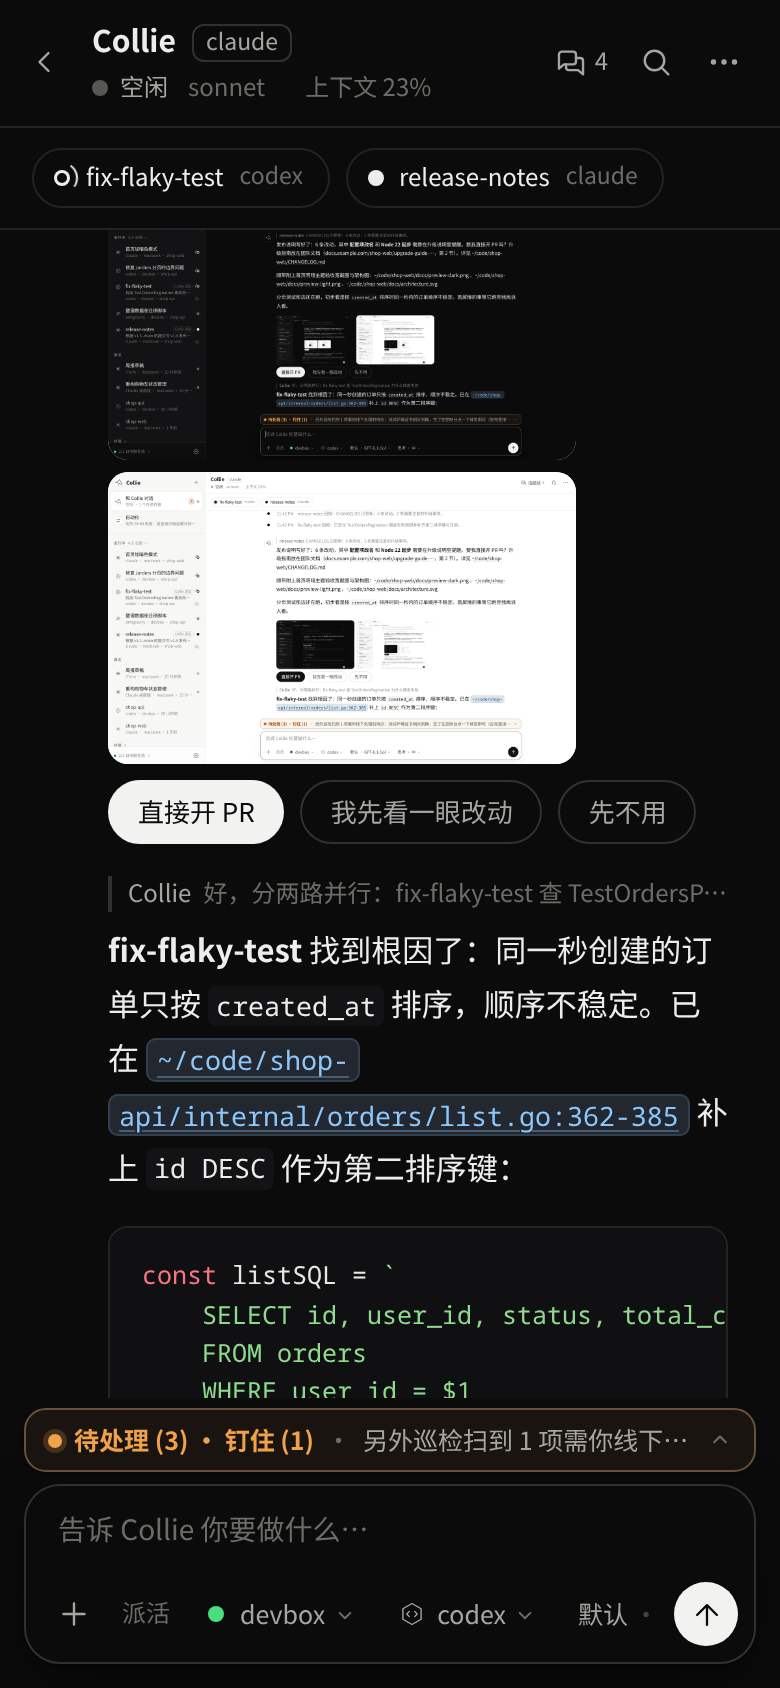
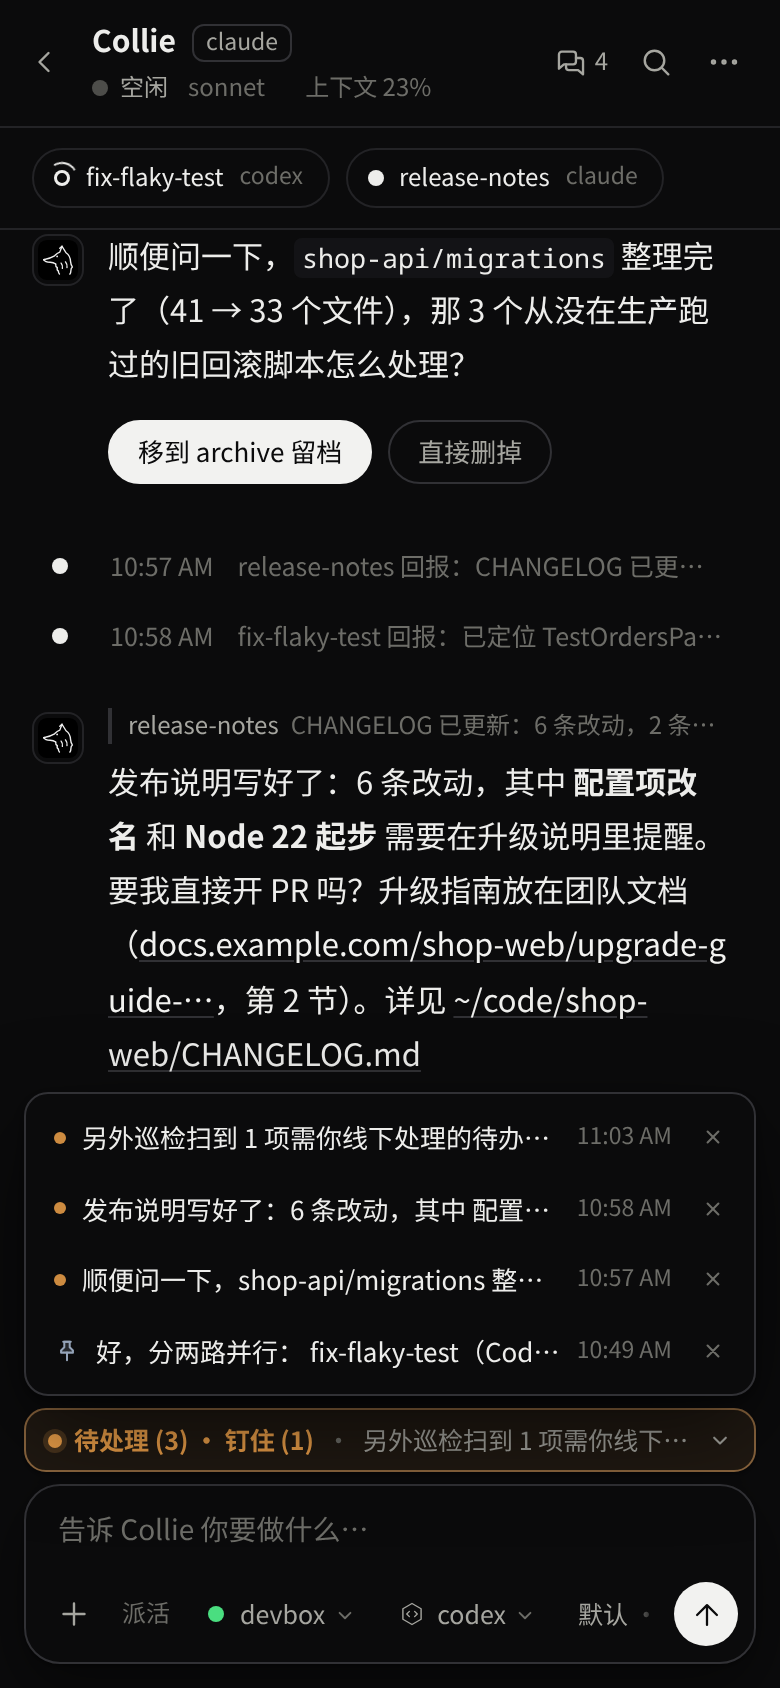
Polish homepage hero showcase break-out layout, mobile decision card, and video controls
- Restore staggered bottom-right break-out layout for `.stage-phone` (+44px right / +36px bottom on desktop, +26px on tablet) using container-safe inset spacing so desktop content stays unobstructed with 0px horizontal overflow across 1440px–390px
- Unify the hero cinema frame chrome for the 18s dark looping showcase (`hero-demo.mp4`), align its poster (`hero-dark.png`) to eliminate light-to-dark flash on load, and upgrade phone bezels with multi-layer shadows, subtle rim contrast, and progressive `corner-shape: squircle`
- Refresh `phone-decision-{light,dark}.png` from the live demo with the concise `shop-api/migrations` decision buttons and expanded Pending/Pinned tray, removing recursive thumbnail clutter and separating mobile and desktop focal content
- Add an accessible bilingual Pause/Play toggle in the hero frame bar (WCAG 2.2.2) with `prefers-reduced-motion: reduce` support and remove above-the-fold lazy loading on hero phone images

diff --git a/docs/index.html b/docs/index.html
@@ -37,6 +37,8 @@ window.onerror = function () { document.documentElement.classList.remove("js"); 
   --accent-light: #111111; --on-accent-light: #ffffff;
   --ok-light: #15803d; --attn-light: #b45309; --attn-soft-light: #fbf3e8;
   --shadow-light: 0 1px 2px rgba(0,0,0,.04), 0 16px 48px rgba(0,0,0,.08);
+  --phone-bezel-light: #18181b;
+  --phone-shadow-light: 0 0 0 1px rgba(0,0,0,.12), 0 10px 24px -6px rgba(0,0,0,.20), 0 28px 64px -12px rgba(0,0,0,.28);
 
   --bg-dark: #0b0b0c; --bg-2-dark: #131315; --bg-3-dark: #1c1c1f;
   --line-dark: #232327; --line-2-dark: #323238;
@@ -44,6 +46,8 @@ window.onerror = function () { document.documentElement.classList.remove("js"); 
   --accent-dark: #f2f2f0; --on-accent-dark: #0b0b0c;
   --ok-dark: #4ade80; --attn-dark: #f0a35e; --attn-soft-dark: #2a1f12;
   --shadow-dark: 0 1px 2px rgba(0,0,0,.45), 0 20px 56px rgba(0,0,0,.55);
+  --phone-bezel-dark: #222227;
+  --phone-shadow-dark: 0 0 0 1px rgba(255,255,255,.15), 0 12px 26px -6px rgba(0,0,0,.62), 0 34px 74px -12px rgba(0,0,0,.85);
 
   --bg: var(--bg-light); --bg-2: var(--bg-2-light); --bg-3: var(--bg-3-light);
   --line: var(--line-light); --line-2: var(--line-2-light);
@@ -51,6 +55,8 @@ window.onerror = function () { document.documentElement.classList.remove("js"); 
   --accent: var(--accent-light); --on-accent: var(--on-accent-light);
   --ok: var(--ok-light); --attn: var(--attn-light); --attn-soft: var(--attn-soft-light);
   --shadow: var(--shadow-light);
+  --phone-bezel: var(--phone-bezel-light);
+  --phone-shadow: var(--phone-shadow-light);
 
   --target-size: 28px;
   --sans: -apple-system, BlinkMacSystemFont, "Inter", "PingFang SC", "Hiragino Sans GB", "Segoe UI", sans-serif;
@@ -68,6 +74,8 @@ window.onerror = function () { document.documentElement.classList.remove("js"); 
     --accent: var(--accent-dark); --on-accent: var(--on-accent-dark);
     --ok: var(--ok-dark); --attn: var(--attn-dark); --attn-soft: var(--attn-soft-dark);
     --shadow: var(--shadow-dark);
+    --phone-bezel: var(--phone-bezel-dark);
+    --phone-shadow: var(--phone-shadow-dark);
   }
 }
 @supports (color: light-dark(white, black)) {
@@ -85,15 +93,18 @@ window.onerror = function () { document.documentElement.classList.remove("js"); 
     --ok: light-dark(var(--ok-light), var(--ok-dark));
     --attn: light-dark(var(--attn-light), var(--attn-dark));
     --attn-soft: light-dark(var(--attn-soft-light), var(--attn-soft-dark));
+    --phone-bezel: light-dark(var(--phone-bezel-light), var(--phone-bezel-dark));
   }
 }
 :root:has(> head > meta[name="color-scheme"][content="dark"]) {
   color-scheme: dark;
   --shadow: var(--shadow-dark);
+  --phone-shadow: var(--phone-shadow-dark);
 }
 :root:has(> head > meta[name="color-scheme"][content="light"]) {
   color-scheme: light;
   --shadow: var(--shadow-light);
+  --phone-shadow: var(--phone-shadow-light);
 }
 @supports not (color: light-dark(white, black)) {
   :root:has(> head > meta[name="color-scheme"][content="dark"]) {
@@ -102,6 +113,7 @@ window.onerror = function () { document.documentElement.classList.remove("js"); 
     --fg: var(--fg-dark); --fg-2: var(--fg-2-dark); --fg-3: var(--fg-3-dark);
     --accent: var(--accent-dark); --on-accent: var(--on-accent-dark);
     --ok: var(--ok-dark); --attn: var(--attn-dark); --attn-soft: var(--attn-soft-dark);
+    --phone-bezel: var(--phone-bezel-dark);
   }
   :root:has(> head > meta[name="color-scheme"][content="light"]) {
     --bg: var(--bg-light); --bg-2: var(--bg-2-light); --bg-3: var(--bg-3-light);
@@ -109,6 +121,7 @@ window.onerror = function () { document.documentElement.classList.remove("js"); 
     --fg: var(--fg-light); --fg-2: var(--fg-2-light); --fg-3: var(--fg-3-light);
     --accent: var(--accent-light); --on-accent: var(--on-accent-light);
     --ok: var(--ok-light); --attn: var(--attn-light); --attn-soft: var(--attn-soft-light);
+    --phone-bezel: var(--phone-bezel-light);
   }
 }
 
@@ -277,29 +290,58 @@ h1 em { font-style: normal; color: var(--attn); }
 }
 .proof span::before { content: "✓ "; color: var(--ok); }
 
-/* Hero media showcase — clean slot ready for future video cover/player swap */
-.stage { position: relative; margin: 40px auto 0; max-width: 1060px; padding-bottom: 24px; }
+/* Hero media showcase — desktop looping cinema stage + staggered break-out phone */
+.stage {
+  position: relative;
+  margin: 44px auto 0;
+  max-width: 1060px;
+  padding-inline-end: 44px;
+  padding-bottom: 36px;
+}
 .frame {
   border-radius: 16px; overflow: hidden;
-  border: 1px solid var(--line); box-shadow: var(--shadow);
-  background: var(--bg-2);
+  border: 1px solid #26262c; box-shadow: var(--shadow);
+  background: #141417;
 }
 .frame .bar {
   display: flex; align-items: center; gap: 7px;
-  min-block-size: 36px; padding: 6px 14px;
-  border-bottom: 1px solid var(--line); background: var(--bg-2);
+  min-block-size: 36px; padding: 5px 12px 5px 14px;
+  border-bottom: 1px solid #222228; background: #16161a;
 }
-.frame .bar i { width: 10px; height: 10px; border-radius: 50%; background: var(--line-2); flex: none; }
-.frame .bar span { margin-left: 8px; font-size: 0.75rem; color: var(--fg-3); font-family: var(--mono); }
-.stage-media { position: relative; background: var(--bg); }
+.frame .bar i { width: 10px; height: 10px; border-radius: 50%; background: #32323a; flex: none; }
+.frame .bar span { margin-inline-start: 8px; font-size: 0.75rem; color: #9a9a94; font-family: var(--mono); }
+.media-toggle {
+  margin-inline-start: auto;
+  display: inline-flex; align-items: center; gap: 5px;
+  min-block-size: 26px; padding: 3px 10px;
+  border-radius: 999px; border: 1px solid rgba(255,255,255,.14);
+  background: rgba(255,255,255,.06); color: #d6d6d0;
+  font: 0.72rem/1 var(--sans); font-weight: 500; cursor: pointer;
+  transition: background .15s ease, border-color .15s ease, color .15s ease;
+}
+.media-toggle:hover {
+  background: rgba(255,255,255,.13); border-color: rgba(255,255,255,.28); color: #ffffff;
+}
+.media-toggle:focus-visible { outline: 2px solid #ffffff; outline-offset: 2px; }
+.media-toggle svg { width: 11px; height: 11px; flex: none; }
+.media-toggle [hidden] { display: none; }
+@media (pointer: coarse) {
+  .media-toggle { min-block-size: 34px; padding: 5px 12px; }
+}
+.stage-media { position: relative; background: #0b0b0c; }
 .stage-media img,
 .stage-media video {
   width: 100%; aspect-ratio: 16 / 10; object-fit: cover; object-position: top;
 }
 .stage-phone {
-  position: absolute; right: 16px; bottom: 0; width: 224px;
-  border-radius: 32px; border: 6px solid #1b1b1d;
-  box-shadow: var(--shadow); overflow: hidden; background: var(--bg);
+  position: absolute; inset-inline-end: 0; inset-block-end: 0; z-index: 2;
+  width: 204px; border-radius: 32px; corner-shape: squircle;
+  border: 6px solid var(--phone-bezel);
+  box-shadow: var(--phone-shadow); overflow: hidden; background: var(--bg);
+}
+@media (prefers-reduced-motion: no-preference) and (hover: hover) {
+  .stage-phone { transition: transform .32s cubic-bezier(.22, 1, .36, 1); }
+  .stage-phone:hover { transform: translateY(-4px); }
 }
 .stage-phone img { width: 100%; aspect-ratio: 390 / 844; object-fit: cover; object-position: top; }
 
@@ -375,8 +417,8 @@ h2 {
 .duo { display: flex; gap: 18px; justify-content: center; align-items: flex-start; }
 .duo .phone-card {
   width: 47%; max-width: 248px;
-  border-radius: 32px; border: 6px solid #1b1b1d;
-  box-shadow: var(--shadow); overflow: hidden; background: var(--bg);
+  border-radius: 32px; corner-shape: squircle; border: 6px solid var(--phone-bezel);
+  box-shadow: var(--phone-shadow); overflow: hidden; background: var(--bg);
 }
 .duo .phone-card img { width: 100%; aspect-ratio: 390 / 844; object-fit: cover; object-position: top; }
 
@@ -484,7 +526,8 @@ footer a { color: var(--fg-2); }
   .feature.flip .text { order: 0; }
   .facts { grid-template-columns: 1fr 1fr; }
   .steps { grid-template-columns: 1fr; }
-  .stage-phone { width: 176px; right: 12px; border-width: 5px; border-radius: 26px; }
+  .stage { padding-inline-end: 26px; padding-bottom: 26px; }
+  .stage-phone { width: 168px; border-width: 5px; border-radius: 26px; }
 }
 @media (max-width: 640px) {
   .wrap { padding-inline: max(16px, env(safe-area-inset-left, 0px), env(safe-area-inset-right, 0px)); }
@@ -492,7 +535,7 @@ footer a { color: var(--fg-2); }
   nav { gap: 10px; }
   .ctrl { padding: 4px 8px; font-size: 0.75rem; }
   .hero { padding: 36px 0 12px; }
-  .stage { margin-top: 32px; padding-bottom: 0; }
+  .stage { margin-top: 32px; padding-inline-end: 0; padding-bottom: 0; }
   .stage-phone { display: none; }
   section { padding-top: 72px; }
   .points { grid-template-columns: 1fr; }
@@ -551,12 +594,19 @@ footer a { color: var(--fg-2); }
       <span data-i18n="proof_ports">Zero open ports</span>
     </div>
 
-    <!-- Primary media slot: silent looping hero showcase with static fallback -->
+    <!-- Primary media slot: silent looping hero showcase + staggered mobile decision view -->
     <div class="stage reveal" data-media-slot="hero-showcase">
       <div class="frame">
-        <div class="bar"><i></i><i></i><i></i><span data-i18n="stage_bar">collie · chat with Collie</span></div>
+        <div class="bar">
+          <i></i><i></i><i></i><span data-i18n="stage_bar">collie · chat with Collie</span>
+          <button type="button" class="media-toggle" id="hero-video-toggle" aria-controls="hero-video" aria-label="Pause looping demo video">
+            <svg class="ic-pause" viewBox="0 0 16 16" fill="currentColor" aria-hidden="true"><rect x="3" y="2.5" width="3.5" height="11" rx="1"/><rect x="9.5" y="2.5" width="3.5" height="11" rx="1"/></svg>
+            <svg class="ic-play" viewBox="0 0 16 16" fill="currentColor" aria-hidden="true" hidden><path d="M4 2.8v10.4L13 8z"/></svg>
+            <span class="media-toggle-label" data-i18n="video_pause">Pause</span>
+          </button>
+        </div>
         <div class="stage-media" id="hero-media">
-          <video id="hero-video" autoplay muted loop playsinline preload="metadata" poster="img/hero-light.png" width="1280" height="800" aria-label="Collie workspace: parallel Claude Code and Codex workers report back with a concise brief and one-tap decision buttons" data-i18n-aria="hero_img_alt">
+          <video id="hero-video" autoplay muted loop playsinline preload="metadata" poster="img/hero-dark.png" width="1280" height="800" aria-label="Collie workspace: parallel Claude Code and Codex workers report back with a concise brief and one-tap decision buttons" data-i18n-aria="hero_img_alt">
             <source src="img/hero-demo.mp4" type="video/mp4">
             <img class="only-light" src="img/hero-light.png" width="2880" height="1800" alt="Collie workspace: parallel Claude Code and Codex workers report back with a concise brief and one-tap decision buttons" data-i18n-alt="hero_img_alt">
             <img class="only-dark" src="img/hero-dark.png" width="2880" height="1800" alt="Collie workspace in dark mode: parallel Claude Code and Codex workers report back with a concise brief and one-tap decision buttons" data-i18n-alt="hero_img_alt">
@@ -564,8 +614,8 @@ footer a { color: var(--fg-2); }
         </div>
       </div>
       <div class="stage-phone">
-        <img class="only-light" src="img/phone-decision-light.png" width="780" height="1688" alt="Mobile Collie view showing a concise report and one-tap decision buttons" data-i18n-alt="phone_decision_alt" loading="lazy">
-        <img class="only-dark" src="img/phone-decision-dark.png" width="780" height="1688" alt="Mobile Collie view in dark mode showing a concise report and one-tap decision buttons" data-i18n-alt="phone_decision_alt" loading="lazy">
+        <img class="only-light" src="img/phone-decision-light.png" width="780" height="1688" decoding="async" alt="Mobile Collie view showing a concise report, one-tap decision buttons, and expanded pending tray" data-i18n-alt="phone_decision_alt">
+        <img class="only-dark" src="img/phone-decision-dark.png" width="780" height="1688" decoding="async" alt="Mobile Collie view in dark mode showing a concise report, one-tap decision buttons, and expanded pending tray" data-i18n-alt="phone_decision_alt">
       </div>
     </div>
 
@@ -804,8 +854,12 @@ const COPY = {
     proof_web: "Pure Web UI · PWA",
     proof_ports: "Zero open ports",
     stage_bar: "collie · chat with Collie",
+    video_pause: "Pause",
+    video_play: "Play",
+    video_pause_aria: "Pause looping demo video",
+    video_play_aria: "Play looping demo video",
     hero_img_alt: "Collie workspace: parallel Claude Code and Codex workers report back with a concise brief and one-tap decision buttons",
-    phone_decision_alt: "Mobile Collie view showing a concise report and one-tap decision buttons",
+    phone_decision_alt: "Mobile Collie view showing a concise report, one-tap decision buttons, and expanded pending tray",
     phone_thread_alt: "Mobile Collie bottom-sheet reply-thread drawer with linked worker status pills",
     loop1_t: "Delegate once",
     loop1_d: "Describe the goal in chat—or let GitHub, Feishu / Lark, or a schedule trigger it automatically.",
@@ -918,8 +972,12 @@ const COPY = {
     proof_web: "纯 Web UI · PWA",
     proof_ports: "免开端口",
     stage_bar: "collie · 和 Collie 对话",
+    video_pause: "暂停",
+    video_play: "播放",
+    video_pause_aria: "暂停循环演示视频",
+    video_play_aria: "播放循环演示视频",
     hero_img_alt: "Collie 工作台：并行派出的 Claude Code 与 Codex 回报进展，Collie 给出精炼结论与一键决策选项",
-    phone_decision_alt: "手机端 Collie 界面：精炼结论配一键决策按钮与待处理钉住条",
+    phone_decision_alt: "手机端 Collie 界面：精炼结论、一键决策按钮与展开的待处理和钉住托盘",
     phone_thread_alt: "手机端 Collie 底部话题抽屉：多条分支讨论与关联 Agent 实时状态",
     loop1_t: "说清目标，放心交出去",
     loop1_d: "在对话里派活，或让 GitHub、飞书机器人与定时巡检自动把事送进来。",
@@ -1055,6 +1113,46 @@ function applyLang(lang) {
     const k = el.dataset.i18nAria;
     if (k in dict) el.setAttribute("aria-label", dict[k]);
   });
+  syncVideoToggleUI();
+}
+
+/* Hero looping video pause/play control + prefers-reduced-motion handling */
+const heroVideo = document.getElementById("hero-video");
+const heroVideoToggle = document.getElementById("hero-video-toggle");
+const reducedMotionMQ = window.matchMedia("(prefers-reduced-motion: reduce)");
+
+function syncVideoToggleUI() {
+  if (!heroVideo || !heroVideoToggle) return;
+  const dict = COPY[currentLang];
+  const paused = heroVideo.paused;
+  const label = heroVideoToggle.querySelector(".media-toggle-label");
+  const icPause = heroVideoToggle.querySelector(".ic-pause");
+  const icPlay = heroVideoToggle.querySelector(".ic-play");
+  if (label) label.textContent = paused ? dict.video_play : dict.video_pause;
+  if (icPause) icPause.toggleAttribute("hidden", paused);
+  if (icPlay) icPlay.toggleAttribute("hidden", !paused);
+  heroVideoToggle.setAttribute("aria-label", paused ? dict.video_play_aria : dict.video_pause_aria);
+}
+
+if (heroVideo && heroVideoToggle) {
+  if (reducedMotionMQ.matches) {
+    heroVideo.removeAttribute("autoplay");
+    heroVideo.pause();
+  }
+  reducedMotionMQ.addEventListener?.("change", (e) => {
+    if (e.matches) heroVideo.pause();
+    syncVideoToggleUI();
+  });
+  heroVideoToggle.addEventListener("click", () => {
+    if (heroVideo.paused) {
+      heroVideo.play().catch(() => {});
+    } else {
+      heroVideo.pause();
+    }
+    syncVideoToggleUI();
+  });
+  heroVideo.addEventListener("play", syncVideoToggleUI);
+  heroVideo.addEventListener("pause", syncVideoToggleUI);
 }
 
 applyLang(detectInitialLang());
@@ -1068,24 +1166,16 @@ langBtn.addEventListener("click", () => {
 const schemeMeta = document.querySelector('meta[name="color-scheme"]');
 const darkMQ = window.matchMedia("(prefers-color-scheme: dark)");
 const themeBtn = document.getElementById("theme-toggle");
-const heroVideo = document.getElementById("hero-video");
 
 function renderedScheme() {
   const saved = readStored("collie-theme");
   if (saved === "light" || saved === "dark") return saved;
   return darkMQ.matches ? "dark" : "light";
 }
-function syncHeroPoster() {
-  if (!heroVideo) return;
-  heroVideo.poster = renderedScheme() === "dark" ? "img/hero-dark.png" : "img/hero-light.png";
-}
 function syncSchemeMeta() {
   const saved = readStored("collie-theme");
   schemeMeta.content = (saved === "light" || saved === "dark") ? saved : "light dark";
-  syncHeroPoster();
 }
-syncHeroPoster();
-darkMQ.addEventListener?.("change", syncHeroPoster);
 themeBtn.addEventListener("click", () => {
   const target = renderedScheme() === "dark" ? "light" : "dark";
   const sys = darkMQ.matches ? "dark" : "light";
@@ -1096,7 +1186,6 @@ themeBtn.addEventListener("click", () => {
     writeStored("collie-theme", target);
     schemeMeta.content = target;
   }
-  syncHeroPoster();
 });
 
 window.addEventListener("storage", (e) => {
